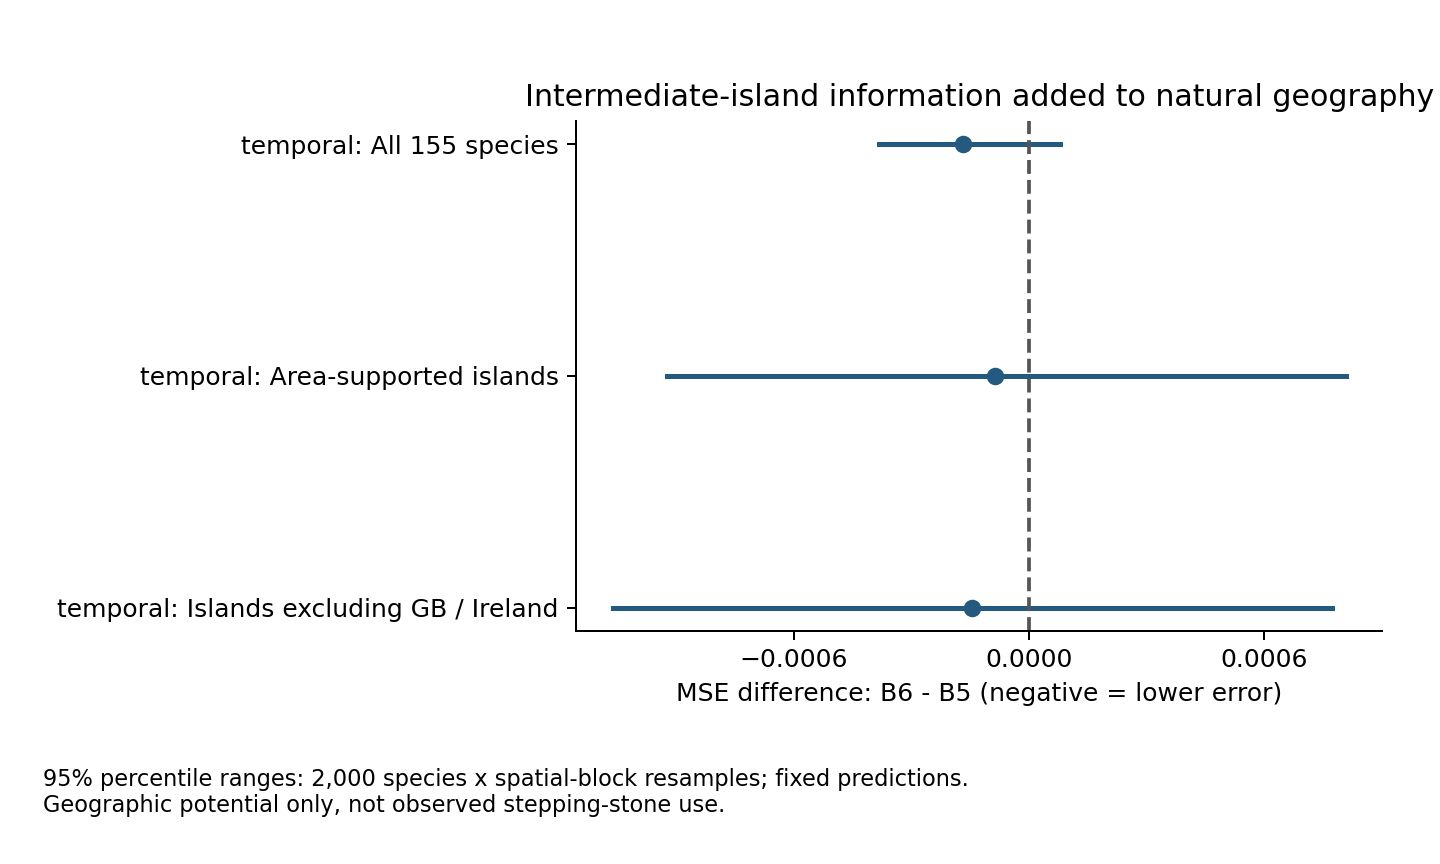
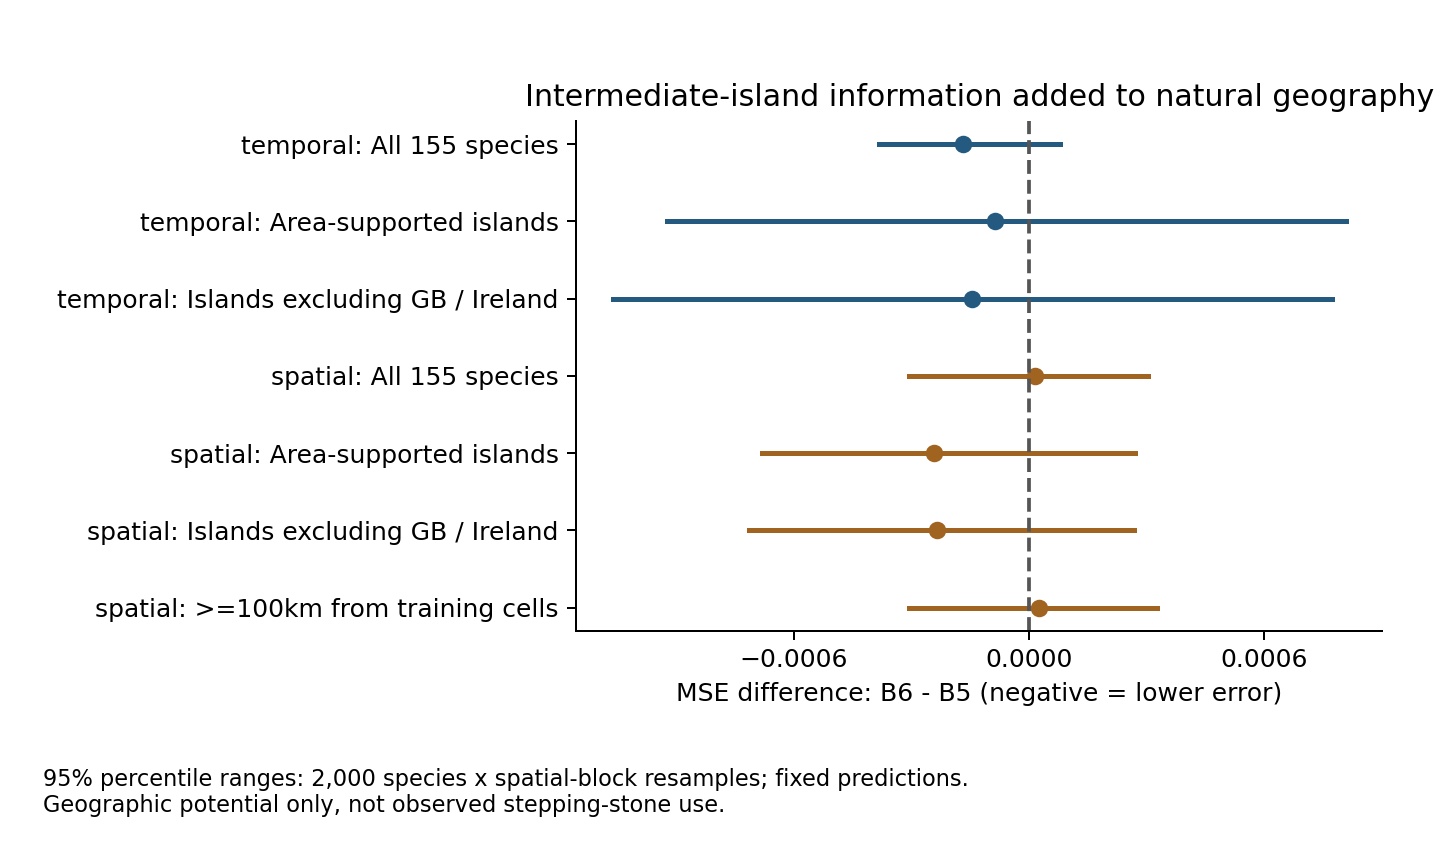
Validate spatial intermediate-island predictions and DEM pilot

diff --git a/provenance/reviewer_defenses/results/intermediate_island_geometry_20261105/intermediate_island_forecast_results_ja.md b/provenance/reviewer_defenses/results/intermediate_island_geometry_20261105/intermediate_island_forecast_results_ja.md
@@ -10,11 +10,19 @@
 |temporal|area_supported_islands|B5_sea_terrain|+0.422%|[-0.000924, +0.000809]|
 |temporal|islands_without_GB_Ireland|M5_host_composition|+7.343%|[-0.006135, +0.001425]|
 |temporal|islands_without_GB_Ireland|B5_sea_terrain|+0.548%|[-0.001063, +0.000774]|
+|spatial|all155|M5_host_composition|-1.890%|[-0.001465, +0.002539]|
+|spatial|all155|B5_sea_terrain|-0.049%|[-0.000305, +0.000303]|
+|spatial|area_supported_islands|M5_host_composition|+11.135%|[-0.006778, +0.001114]|
+|spatial|area_supported_islands|B5_sea_terrain|+1.152%|[-0.000680, +0.000270]|
+|spatial|islands_without_GB_Ireland|M5_host_composition|+10.626%|[-0.007438, +0.000467]|
+|spatial|islands_without_GB_Ireland|B5_sea_terrain|+0.873%|[-0.000714, +0.000268]|
+|spatial|at_least100km|M5_host_composition|-0.594%|[-0.001822, +0.001999]|
+|spatial|at_least100km|B5_sea_terrain|-0.082%|[-0.000306, +0.000328]|
 
 MSE差はB6−比較対象で、負が改善。改善率は正が改善。区間は固定予測誤差の種×空間ブロック再標本化2,000回で、モデル再学習の不確実性や独立した島の反復ではない。
 
 時間外評価の島部分集計は、島全体を学習から除いた評価ではない。中間島は直線経路の幾何情報で、中間島の占有・食草利用・実際の中継移動を示さない。海上距離などを既に含むB5に対する追加価値と、食草モデルM5との差を分ける。
 
-評価状況：{"temporal": "COMPLETE", "spatial": "NOT_COMPLETE"}. 未完了の評価は結果として扱わない。
+評価状況：{"temporal": "COMPLETE", "spatial": "COMPLETE"}. 未完了の評価は結果として扱わない。
 
 現時点の完成済み比較では全区間がゼロを含み、中間島情報の追加効果は未確定。小さな改善の点推定を保持するが、島による中継機構の確認には使わない。

diff --git a/provenance/reviewer_defenses/results/intermediate_island_geometry_20261105/README.md b/provenance/reviewer_defenses/results/intermediate_island_geometry_20261105/README.md
@@ -1,1 +1,1 @@
-Geometry extraction and temporal prediction comparison completed. Temporal B6 versus B5 point improvement0.5385%; fixed-prediction crossed species/spatial-block interval includes zero. Spatial model remains in progress and is not a completed result here. Original225 candidates and155 eligible species retained. See Japanese report for paired comparators and limits. Scripts require original work/barriers paths and local Parquet/shapefile inputs. No observed butterfly relay claim.
+Geometry and temporal/spatial prediction comparisons completed, retaining 225 candidates and 155 eligible species. Paired prediction replay, feature hashes and MSE/MAE were verified. B6 versus B5: temporal all-species improvement +0.5385%; spatial all-species -0.0492%; spatial area-supported island subset +1.1525%; spatial >=100km subset -0.0823%. All fixed-prediction crossed species/spatial-block 95% intervals include zero. Island subset scores are not whole-island holdout. No observed butterfly relay claim. See Japanese report for all comparators and limits. Scripts require original work/barriers paths and local Parquet/shapefile inputs. Figure visually inspected.

diff --git a/provenance/reviewer_defenses/results/route_terrain_20261105/PILOT_STATUS.md b/provenance/reviewer_defenses/results/route_terrain_20261105/PILOT_STATUS.md
@@ -1,0 +1,1 @@
+Five fixed pilot tiles completed after retrying one RasterioIOError. All five Parquet SHA256 hashes, row counts, finite-value counts and broad elevation bounds verified; 194 finite values of 195 planned land points. Missing values remain missing. Full 1,902-tile acquisition launched; no completed route feature or model result claimed.
